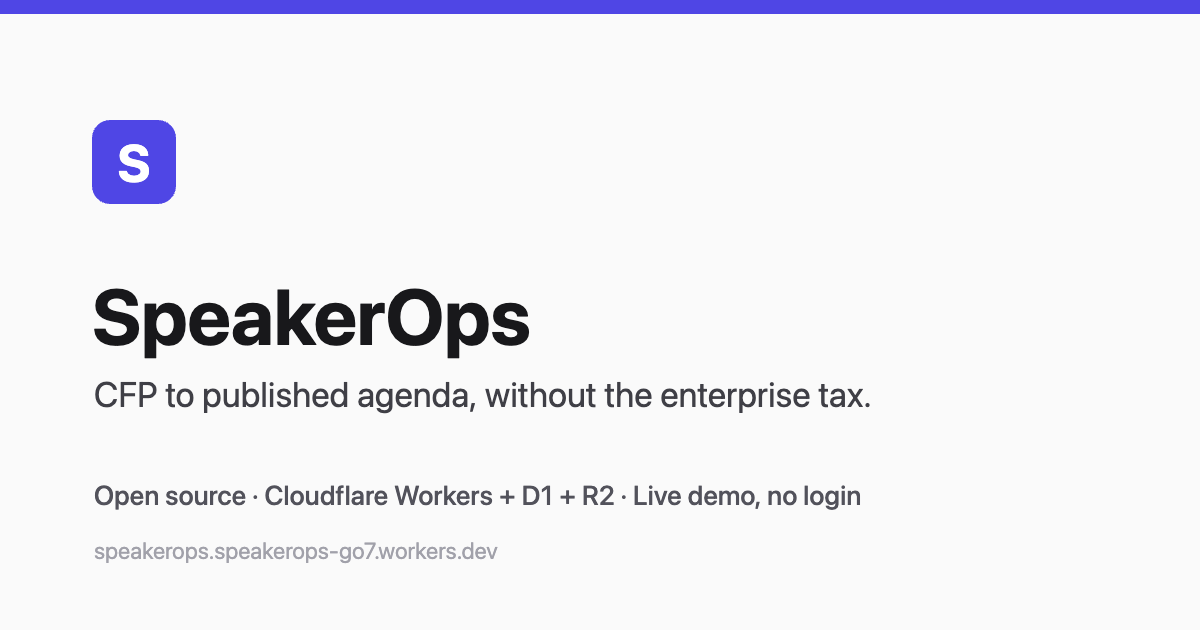
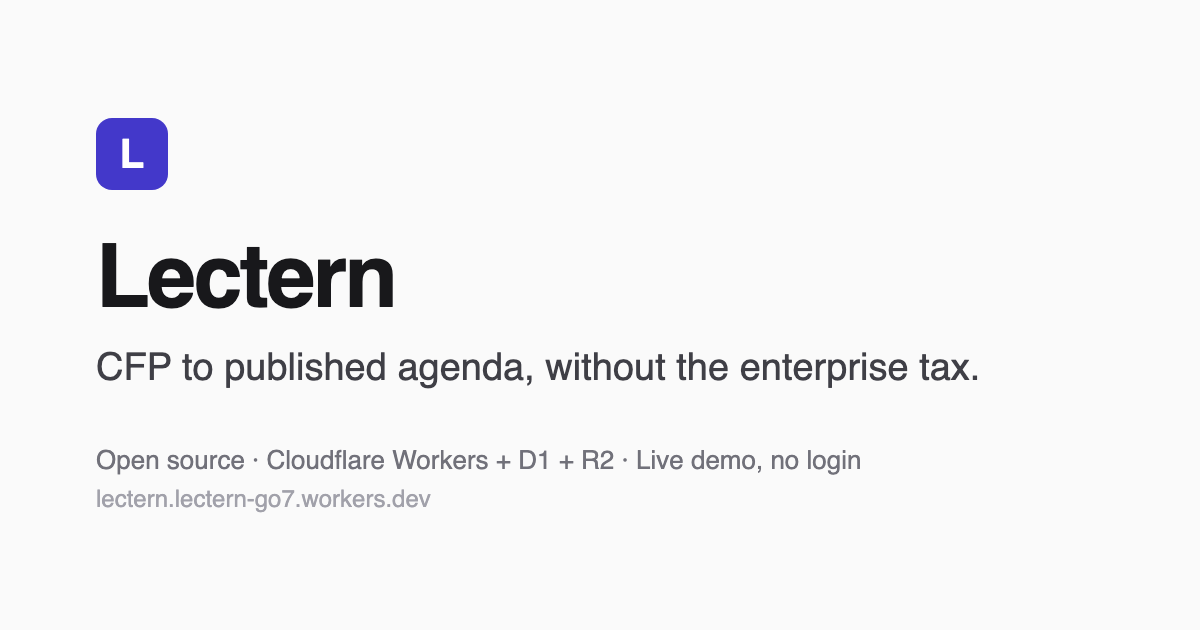
Fix the walkthrough's 404 scene and the stale social card
Scene 7 navigated to /e/:slug/schedule, a route that does not exist —
the fault-tolerant recorder filmed the SPA's not-found page for twelve
seconds while the narration described the public schedule. The scene now
scrolls the event page's program explorer, where the schedule actually
lives. Re-recorded, re-narrated, republished, manifest re-pinned.

public/og.png still carried the pre-rename SpeakerOps wordmark, which is
what link-preview crawlers rendered. Replaced with a Lectern card from
the new scripts/render-og-card.mjs.

diff --git a/usage/REPORT.md b/usage/REPORT.md
@@ -1,15 +1,15 @@
 # AI usage reimbursement audit
 
-Generated 2026-08-12 22:11 UTC by `pnpm usage:report`. Do not edit by hand — regenerate instead.
+Generated 2026-08-12 23:35 UTC by `pnpm usage:report`. Do not edit by hand — regenerate instead.
 
[4 lines of base64/hex data omitted]
 
 ## The three numbers, kept separate
 
 1. **Provider-reported tokens** — counters copied from local provider session logs.
-2. **API-equivalent estimate — $1471.99** — those tokens at pinned public list prices ([pricing.json](pricing.json)). A workload gauge, not a bill.
-3. **Actual billed spend — $465.13 evidenced so far** — the number a reimbursement claim uses, backed by 3 primary billing records plus 34 zero-dollar coverage extensions. 0 usage entries remain uncovered by recorded evidence.
+2. **API-equivalent estimate — $1494.12** — those tokens at pinned public list prices ([pricing.json](pricing.json)). A workload gauge, not a bill.
+3. **Actual billed spend — $465.13 evidenced so far** — the number a reimbursement claim uses, backed by 3 primary billing records plus 35 zero-dollar coverage extensions. 0 usage entries remain uncovered by recorded evidence.
 
 The [brief](https://docs.google.com/document/d/1rBHJtiNKHv4i43tdf2Rm0sDEYuIcajhmAPoBKR_Az-A/) allows a valid submission up to **$500** in token-cost reimbursement, including qualifying Codex Pro / Claude Max subscription usage, subject to proof and organizer review. The claim will be the receipt amounts, capped at $500 — never the API-equivalent gauge.
 
@@ -17,14 +17,14 @@ The [brief](https://docs.google.com/document/d/1rBHJtiNKHv4i43tdf2Rm0sDEYuIcajhm
 
 | Provider / model | Entries | Calls | Input | Cache reads | Cache writes | Output | API-equivalent USD |
 | --- | ---: | ---: | ---: | ---: | ---: | ---: | ---: |
-| anthropic/claude-fable-5 | 59 | 1194 | 3,434 | 550,196,870 | 15,620,556 | 1,067,234 | $916.00 |
+| anthropic/claude-fable-5 | 60 | 1211 | 3,468 | 559,928,799 | 16,207,667 | 1,080,326 | $938.13 |
 | anthropic/claude-opus-5 | 14 | 436 | 845,106 | 218,003,353 | 9,030,040 | 457,513 | $214.97 |
 | openai/gpt-5.6-sol | 91 | — | 9,489,061 | 437,737,472 | 0 | 1,026,850 | $297.12 |
 | openai/gpt-5.5 | 1 | 6 | 5,393 | 516,096 | 0 | 137 | $0.29 |
 | anthropic/claude-sonnet-5 | 16 | 13 | 26,863 | 102,153,695 | 3,480,757 | 429,907 | $33.49 |
 | anthropic/claude-opus-4-8 | 1 | 17 | 34 | 8,979,232 | 535,436 | 7,291 | $10.03 |
 | anthropic/claude-haiku-4-5-20251001 | 1 | — | 19,914 | 276,442 | 23,992 | 4,443 | $0.10 |
-| **Total** | **183** | | | | | | **$1471.99** |
+| **Total** | **184** | | | | | | **$1494.12** |
 
 ## Evidence inventory
 
@@ -215,6 +215,7 @@ One row per immutable ledger entry. The digest is the SHA-256 of the raw provide
 | 2026-08-12 | Codex engineering task | gpt-5.6-sol | engineering qa release | 1,335,796 | $0.79 | `a7781533711b…` (15029 lines) | `scripts/s` |
 | 2026-08-12 | Codex engineering task | gpt-5.6-sol | engineering qa release | 7,254,501 | $4.64 | `1dabfa2eaee0…` (15286 lines) | `docs/USAB` `src/web/p` `src/web/p` |
 | 2026-08-12 | Fable / Opus / Walt build session | claude-fable-5 | planning design engineering | 54,824,143 | $77.00 | `f03b61157cde…` (7711 lines) | `docs/USAB` `src/web/p` `src/web/p` |
+| 2026-08-12 | Fable / Opus / Walt build session | claude-fable-5 | planning design engineering | 10,332,166 | $22.13 | `39fc66cfc313…` (7801 lines) | `public/og` `scripts/r` `scripts/r` `submissio` |
 
 ## Receipt allocations
 
@@ -259,6 +260,7 @@ Billing evidence stays in `usage/private/`. The tracked allocation ledger stores
 | 2026-07-21–2026-08-21 | openai | ChatGPT Pro subscription — Jul 21–Aug 21, 2026 — coverage extension | coverage extension | $0.00 | 1 | `920a87c11f8c…` (38,220 bytes) |
 | 2026-08-09–2026-09-09 | anthropic | Claude Max subscription — Aug 9–Sep 9, 2026 — coverage extension | coverage extension | $0.00 | 1 | `a429dcde5cd9…` (34,130 bytes) |
 | 2026-07-21–2026-08-21 | openai | ChatGPT Pro subscription — Jul 21–Aug 21, 2026 — coverage extension | coverage extension | $0.00 | 1 | `920a87c11f8c…` (38,220 bytes) |
+| 2026-08-09–2026-09-09 | anthropic | Claude Max subscription — Aug 9–Sep 9, 2026 — coverage extension | coverage extension | $0.00 | 1 | `a429dcde5cd9…` (34,130 bytes) |
 
 ## How to audit this
 
